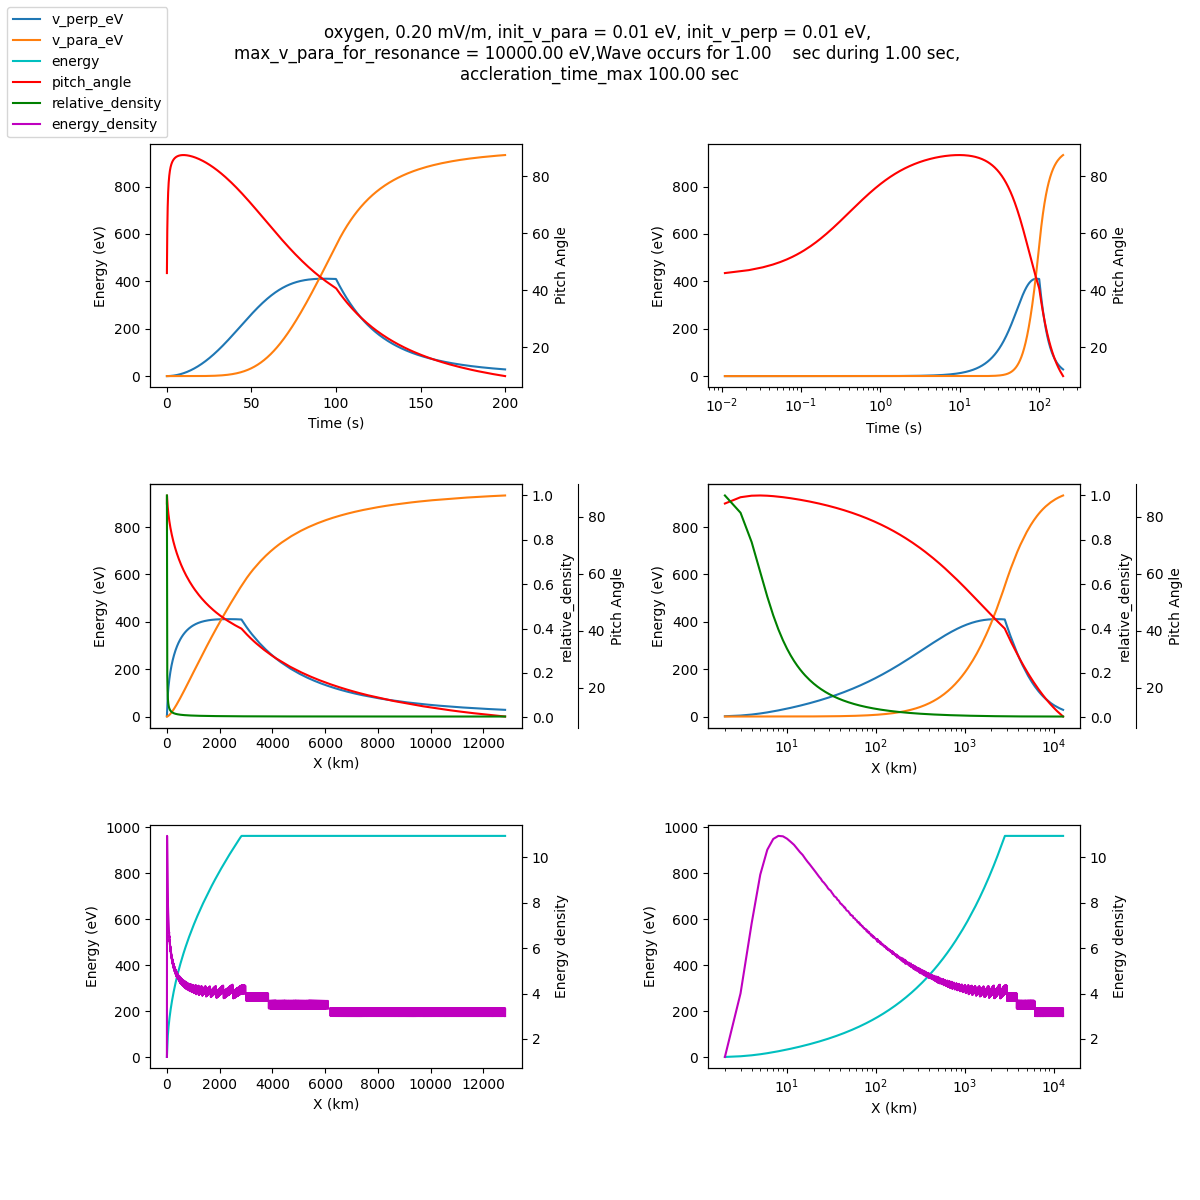
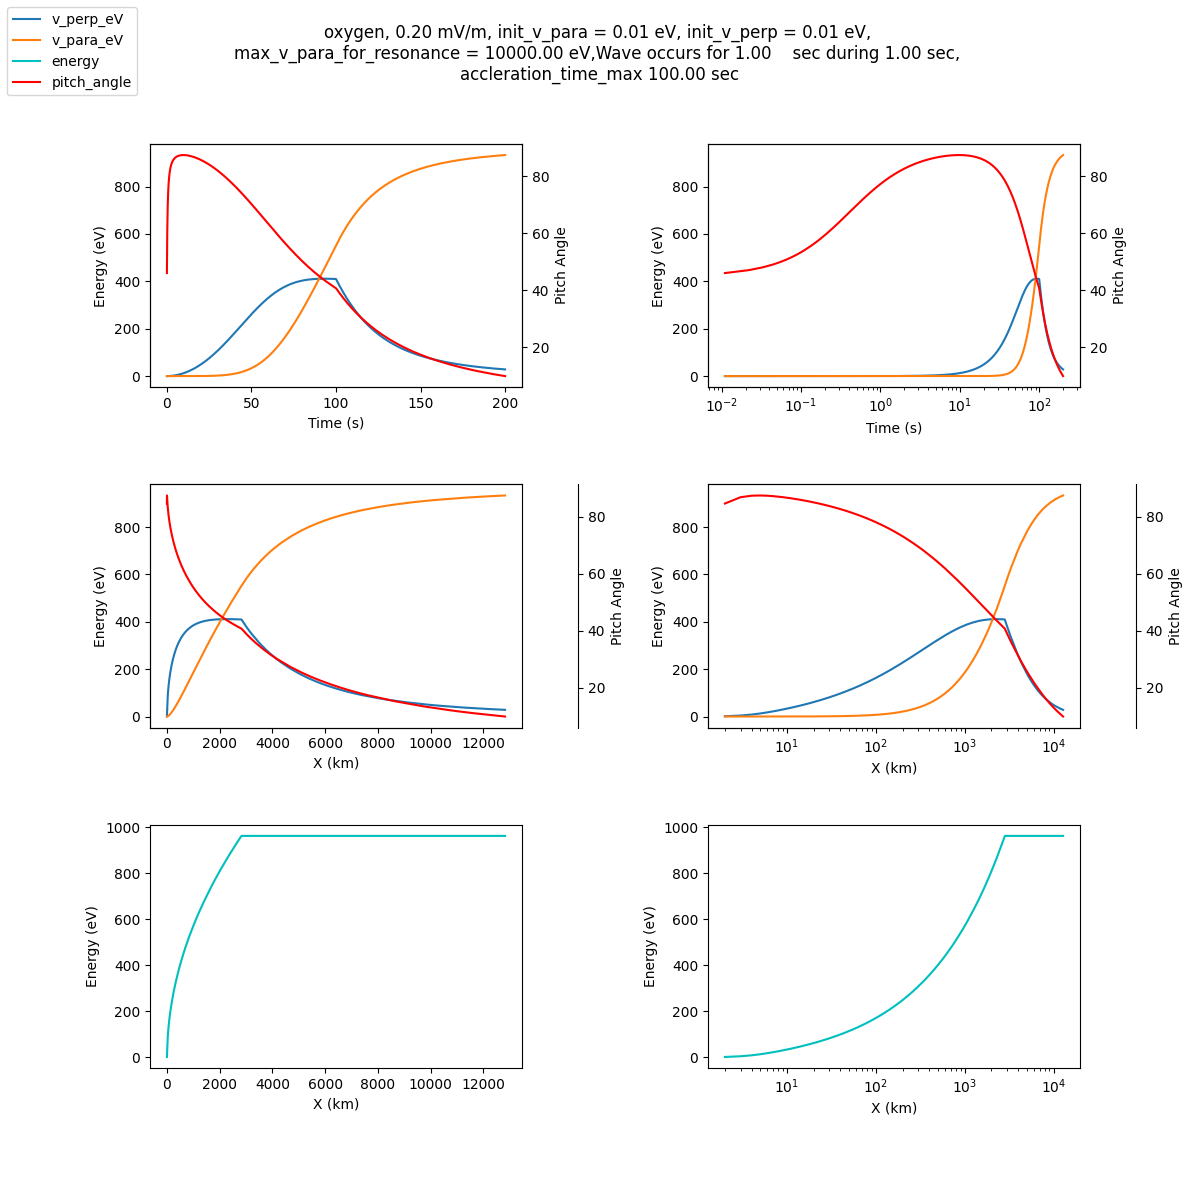
decline density

diff --git a/src/plot.py b/src/plot.py
@@ -35,9 +35,9 @@ ax3_2 = ax3.twinx()
 ax3_2.spines["right"].set_position(("axes", 1.15))
 ax3_2.plot(x_data['x'], x_data['pitch_angle'], 'r', label='')
 ax3_2.set_ylabel('Pitch Angle')
-ax3_3 = ax3.twinx()
-ax3_3.plot(x_data['x'], x_data['relative_density'], 'g', label='')
-ax3_3.set_ylabel('relative_density')
+# ax3_3 = ax3.twinx()
+# ax3_3.plot(x_data['x'], x_data['relative_density'], 'g', label='')
+# ax3_3.set_ylabel('relative_density')
 
 # Plot data on ax4 (log scale)
 ax4.semilogx(x_data['x'], x_data['v_perp_eV'], label='')
@@ -48,25 +48,25 @@ ax4_2 = ax4.twinx()
 ax4_2.spines["right"].set_position(("axes", 1.15))
 ax4_2.semilogx(x_data['x'], x_data['pitch_angle'], 'r', label='')
 ax4_2.set_ylabel('Pitch Angle')
-ax4_3 = ax4.twinx()
-ax4_3.semilogx(x_data['x'], x_data['relative_density'], 'g', label='relative_density')
-ax4_3.set_ylabel('relative_density')
+# ax4_3 = ax4.twinx()
+# ax4_3.semilogx(x_data['x'], x_data['relative_density'], 'g', label='relative_density')
+# ax4_3.set_ylabel('relative_density')
 
 # Plot data on ax5
 ax5.plot(x_data['x'], x_data['energy'], 'c', label='energy')
 ax5.set_xlabel('X (km)')
 ax5.set_ylabel('Energy (eV)')
-ax5_2 = ax5.twinx()
-ax5_2.plot(x_data['x'], x_data['energy_density'], 'm', label='energy_density')
-ax5_2.set_ylabel('Energy density')
+# ax5_2 = ax5.twinx()
+# ax5_2.plot(x_data['x'], x_data['energy_density'], 'm', label='energy_density')
+# ax5_2.set_ylabel('Energy density')
 
 # Plot data on ax6 (log scale)
 ax6.semilogx(x_data['x'], x_data['energy'], 'c', label='')
 ax6.set_xlabel('X (km)')
 ax6.set_ylabel('Energy (eV)')
-ax6_2 = ax6.twinx()
-ax6_2.semilogx(x_data['x'], x_data['energy_density'], 'm', label='')
-ax6_2.set_ylabel('Energy density')
+# ax6_2 = ax6.twinx()
+# ax6_2.semilogx(x_data['x'], x_data['energy_density'], 'm', label='')
+# ax6_2.set_ylabel('Energy density')
 
 # Get parameter from c++
 with open("./data/params.txt") as f:

diff --git a/src/plot_pitch_angle.py b/src/plot_pitch_angle.py
@@ -8,8 +8,8 @@ def initialize_parameters():
     """ Initialize the parameters used in the script. """
     params = {}
     params['want_log'] = False
-    params['upper_distance_acceleration_area'] = 500  # km
-    params['lower_distance_acceleration_area'] = 700  # km
+    params['upper_distance_acceleration_area'] = 100  # km
+    params['lower_distance_acceleration_area'] = 7000  # km
     params['dt'] = 0.1
     params['acceleration_time'] = 20
     params['observe_time'] = 40
@@ -71,7 +71,7 @@ for i in range(len(pitch_angles) - 1):
                          (df["pitch_angle"] < pitch_angles[i + 1])]
         
         # Sum relative density and energy density for current iteration
-        energy_density_sums[i][j] = filtered_df["energy_density"].sum()
+        energy_density_sums[i][j] = filtered_df["relative_density"].sum()
         relative_density_sums[i][j] = filtered_df["relative_density"].sum()
 
 # Create list of times for plot

diff --git a/src/Runge-Kutta.cpp b/src/Runge-Kutta.cpp
@@ -164,7 +164,7 @@ int main() {
             }
             double dv_paradx = abs(v_para-v_para_prev_x);
             
-            ofs_x << x_para_grid/1e3 << "," << t << "," << 1.0/(v_para/first_v_para) << "," << v_perp << "," << v_para << "," << pitch_angle<< "," << v_perp_eV << "," << v_para_eV << "," << v_para_eV+v_perp_eV << "," << (v_para_eV+v_perp_eV)*t_per_para_grid/first_t_per_para_grid << "," << inval_lat/3.141592*180.0 << std::endl;
+            ofs_x << x_para_grid/1e3 << "," << t << "," << 1.0 << "," << v_perp << "," << v_para << "," << pitch_angle<< "," << v_perp_eV << "," << v_para_eV << "," << v_para_eV+v_perp_eV << "," << (v_para_eV+v_perp_eV)*t_per_para_grid/first_t_per_para_grid << "," << inval_lat/3.141592*180.0 << std::endl;
             // flux = constant, so 1/v_para = relative_density, I think
 
             // prev ver relative_density (It's wrong)
